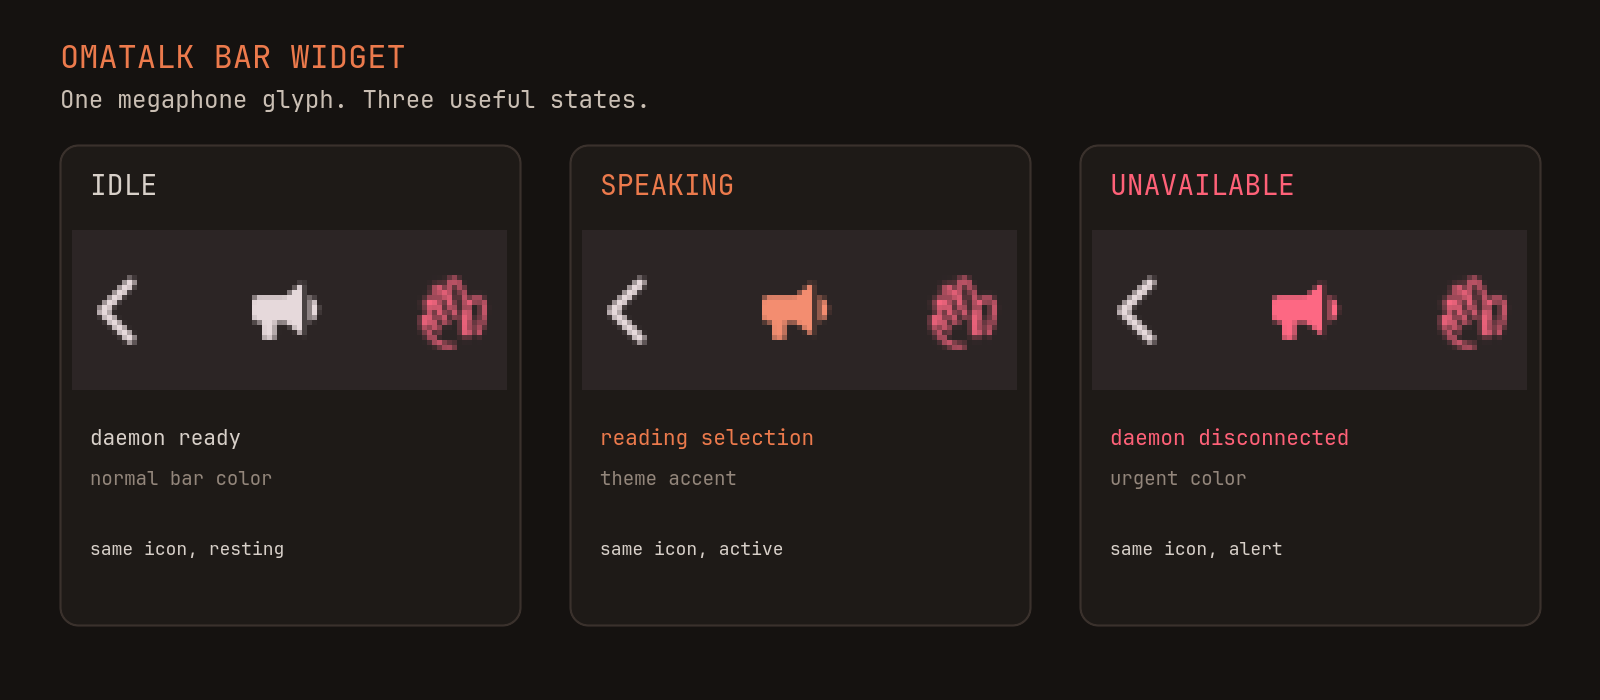
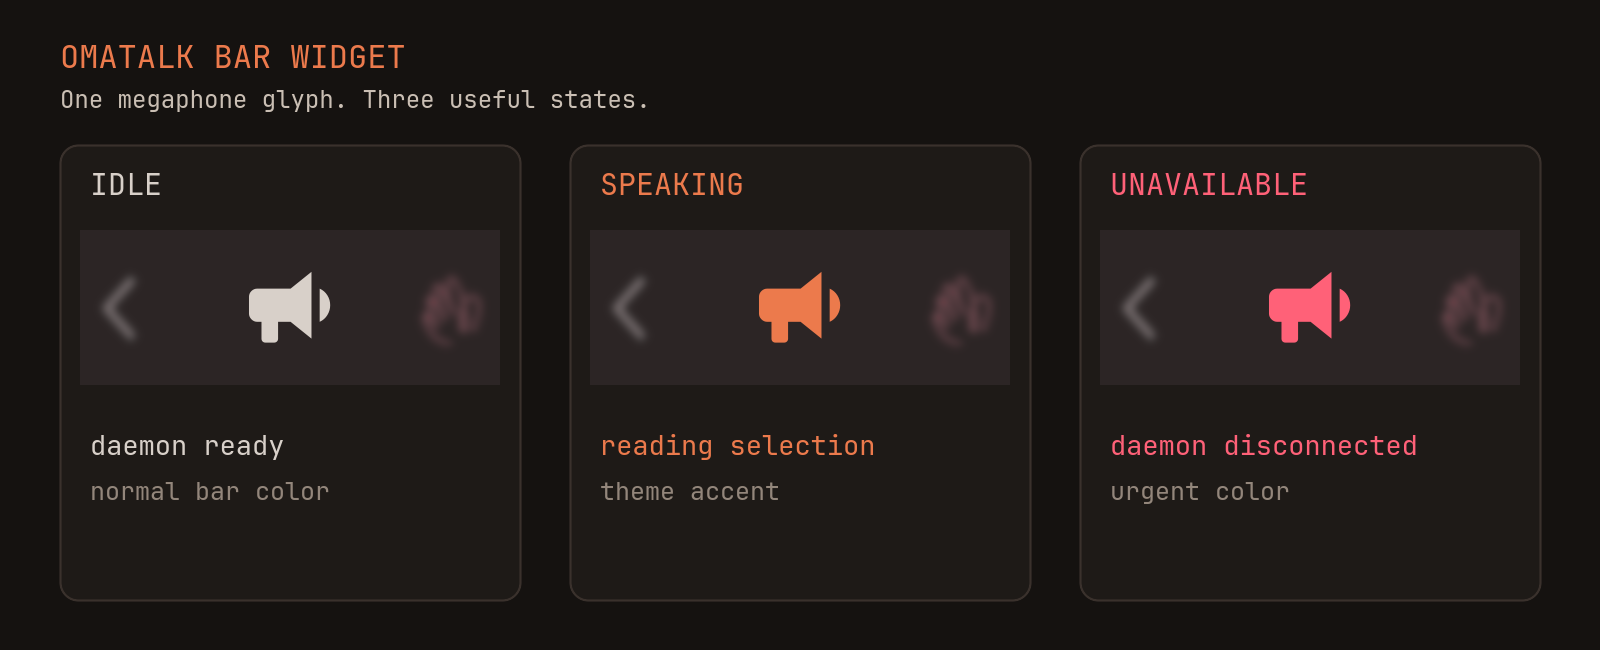
Refine bar widget state graphic

diff --git a/public/index.html b/public/index.html
@@ -21,7 +21,6 @@
     --border-strong: rgba(32,29,26,0.28);
     --accent: #2f7a70;      /* teal leads in light mode */
     --accent-2: #c85a32;    /* ember, secondary in light mode */
-    --urgent: #be435c;
     --accent-ink: #f3f6f1;
     --shadow: 0 1px 0 rgba(32,29,26,0.06);
   }
@@ -38,7 +37,6 @@
       --border-strong: rgba(239,232,224,0.22);
       --accent: #ec7a4c;     /* ember leads in dark mode */
       --accent-2: #5fada2;   /* teal, secondary in dark mode */
-      --urgent: #ff6178;
       --accent-ink: #1b120c;
       --shadow: 0 1px 0 rgba(0,0,0,0.4);
     }
@@ -54,7 +52,6 @@
     --border-strong: rgba(239,232,224,0.22);
     --accent: #ec7a4c;
     --accent-2: #5fada2;
-    --urgent: #ff6178;
     --accent-ink: #1b120c;
     --shadow: 0 1px 0 rgba(0,0,0,0.4);
   }
@@ -339,42 +336,6 @@
     font-family: "JetBrains Mono", monospace;
     font-size: 0.76rem;
   }
-  .bar-state-legend {
-    display: grid;
-    grid-template-columns: repeat(3, 1fr);
-    margin-top: 1px;
-    border: 1px solid var(--border);
-    border-radius: 10px;
-    overflow: hidden;
-  }
-  .bar-state {
-    display: flex;
-    align-items: flex-start;
-    gap: 10px;
-    padding: 15px 16px;
-    background: var(--ink-alt);
-  }
-  .bar-state + .bar-state { border-left: 1px solid var(--border); }
-  .bar-state .state-dot {
-    flex: 0 0 auto;
-    width: 9px;
-    height: 9px;
-    margin-top: 5px;
-    border-radius: 50%;
-    background: var(--fg-dim);
-  }
-  .bar-state.speaking .state-dot { background: var(--accent); }
-  .bar-state.unavailable .state-dot { background: var(--urgent); }
-  .bar-state strong {
-    display: block;
-    font-family: "JetBrains Mono", monospace;
-    font-size: 0.8rem;
-    text-transform: uppercase;
-  }
-  .bar-state span:not(.state-dot) { color: var(--muted); font-size: 0.82rem; }
-  .bar-state.speaking strong { color: var(--accent); }
-  .bar-state.unavailable strong { color: var(--urgent); }
-
   /* ---------- sections ---------- */
   section { padding: clamp(56px, 8vw, 92px) 0; border-top: 1px solid var(--border); }
   section h2 {
@@ -667,10 +628,6 @@
   @media (prefers-reduced-motion: reduce) {
     * { animation-duration: 0.001ms !important; animation-iteration-count: 1 !important; transition-duration: 0.001ms !important; }
   }
-  @media (max-width: 640px) {
-    .bar-state-legend { grid-template-columns: 1fr; }
-    .bar-state + .bar-state { border-top: 1px solid var(--border); border-left: none; }
-  }
 </style>
 </head>
 <body>
@@ -733,13 +690,8 @@
     <p class="prose">The megaphone stays in the same place on the Omarchy bar. Its color tells you whether Omatalk is ready, reading your selection, or disconnected.</p>
     <figure class="bar-states">
       <img src="images/omatalk-bar-states.png" alt="The Omatalk megaphone bar widget in idle, speaking, and unavailable states">
-      <figcaption>Captured from the live Omarchy bar. The glyph stays the same; the state changes its color.</figcaption>
+      <figcaption>Live bar context, enlarged and softened around the Omatalk glyph for clarity.</figcaption>
     </figure>
-    <div class="bar-state-legend" aria-label="Bar widget state legend">
-      <div class="bar-state idle"><span class="state-dot" aria-hidden="true"></span><div><strong>Idle</strong><span>daemon ready</span></div></div>
-      <div class="bar-state speaking"><span class="state-dot" aria-hidden="true"></span><div><strong>Speaking</strong><span>reading selection</span></div></div>
-      <div class="bar-state unavailable"><span class="state-dot" aria-hidden="true"></span><div><strong>Unavailable</strong><span>urgent after 3 seconds</span></div></div>
-    </div>
   </section>
 
   <section id="install">

diff --git a/README.md b/README.md
@@ -28,6 +28,8 @@ The bar keeps one megaphone icon in the same spot and changes its color:
 - `speaking`: theme accent; selected text is being read.
 - `unavailable`: urgent color after a 3-second disconnect grace period.
 
+The live bar context is softened around the Omatalk glyph so the state colors are easy to spot.
+
 ![Omatalk bar widget showing idle, speaking, and unavailable states](public/images/omatalk-bar-states.png)
 
 ## Install
